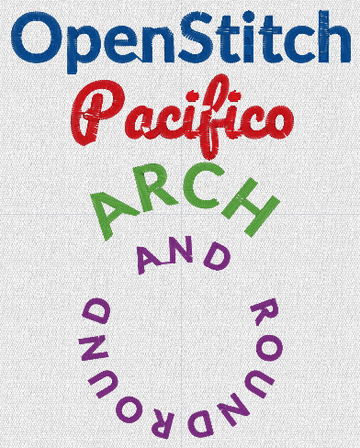
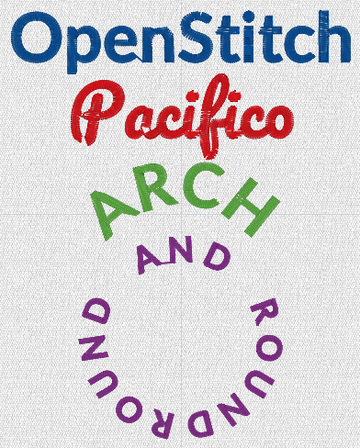
Regenerate lettering/fonts-and-text.pes for the slanted run-ons (#446)

diff --git a/examples/sew/README.md b/examples/sew/README.md
@@ -501,7 +501,7 @@ The fonts, Text Transform, text on a path and monograms.
 
 #### Lettering
 
-[`lettering/fonts-and-text.pes`](lettering/fonts-and-text.pes) · 100 × 100 mm hoop · 71 × 89.7 mm · 3,903 stitches · 39 trims · about 6.9 min
+[`lettering/fonts-and-text.pes`](lettering/fonts-and-text.pes) · 100 × 100 mm hoop · 71 × 89.7 mm · 3,884 stitches · 39 trims · about 6.9 min
 
 Lato Bold and Pacifico, a Text Transform arch, and text spaced around a circle (text on a path).
 
